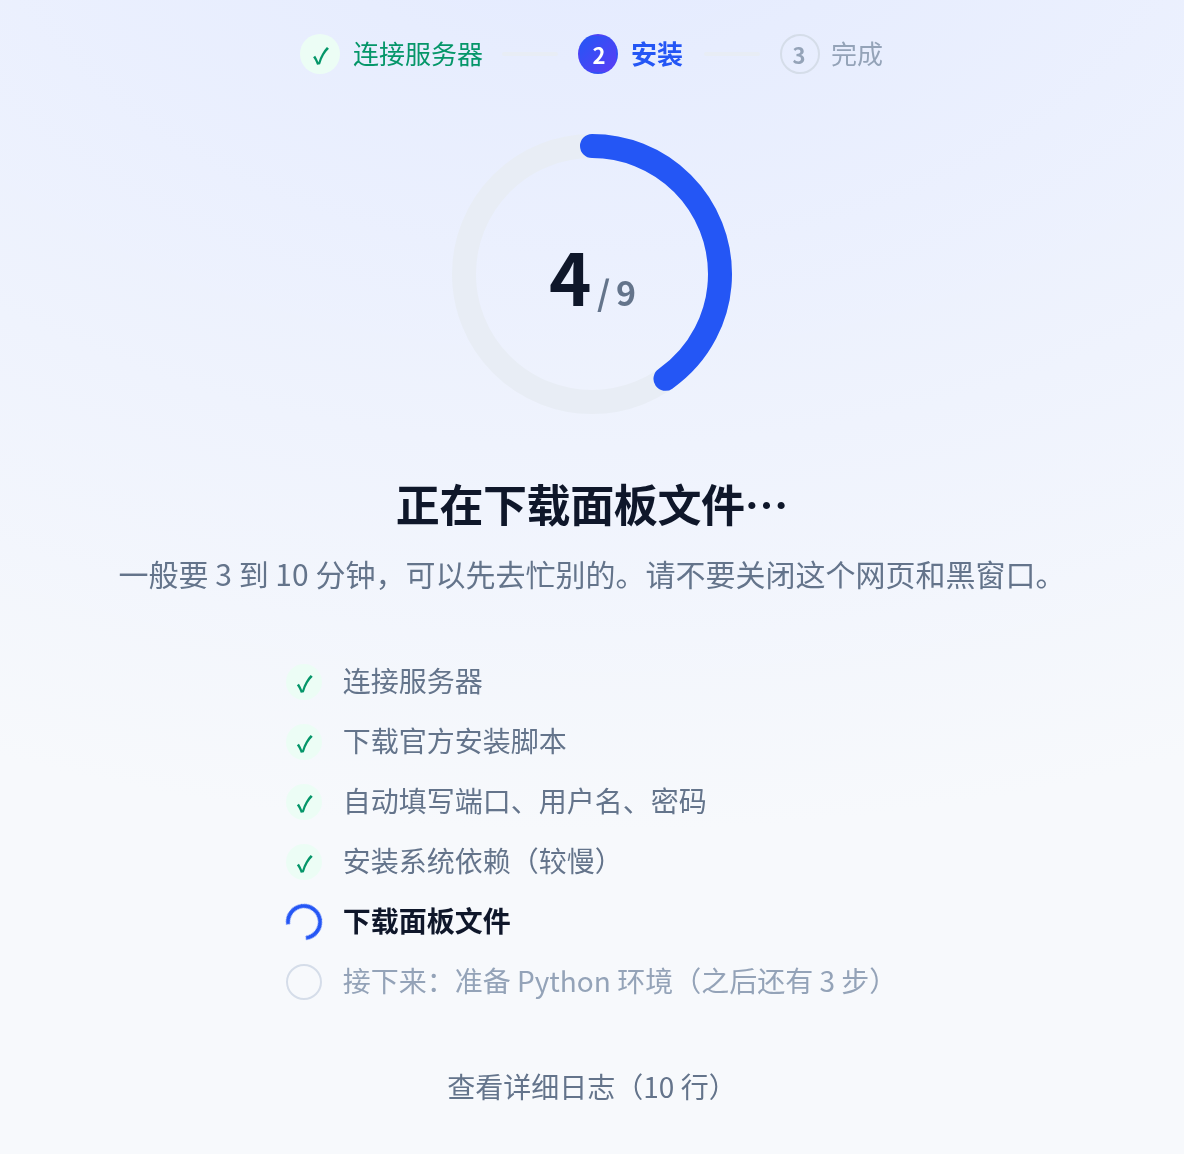
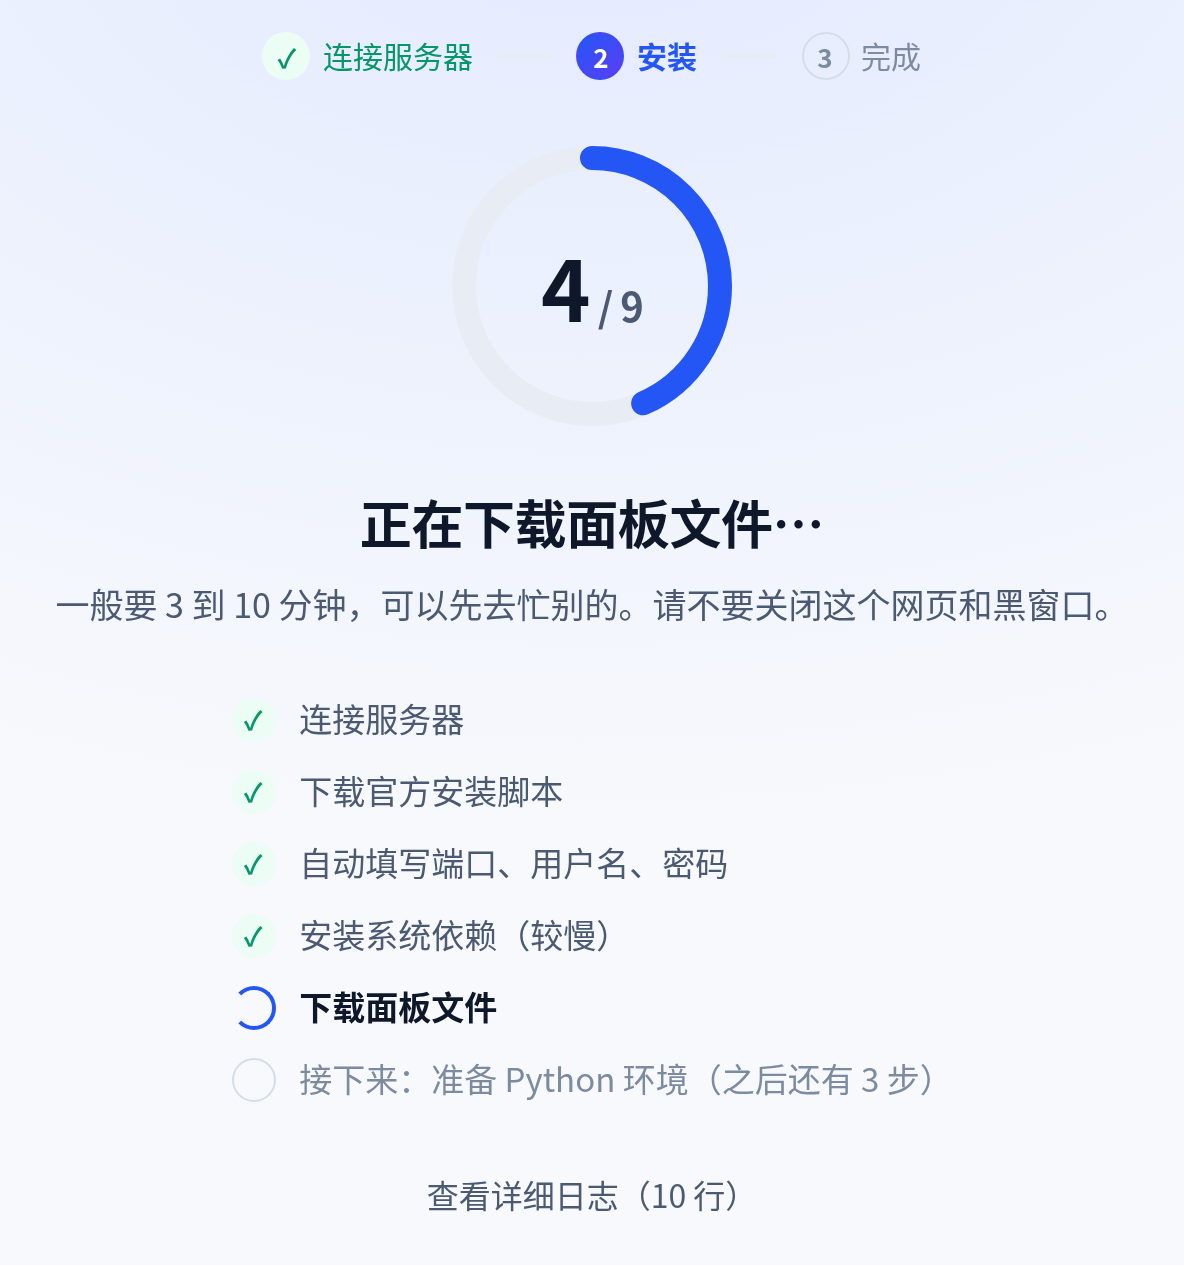
网页字号整体调大、灰色说明文字加深，看得更清楚
正文 15→16px，说明、步骤、提示、标签、按钮等小字都大了约 2px；安装进度的步骤列表 14→16.5px、标题 22→26px；次要文字颜色加深。README 配图重拍。

diff --git a/web/src/styles/ui.css b/web/src/styles/ui.css
@@ -9,7 +9,7 @@
 .logo img { width: 32px; height: 32px; border-radius: 9px; }
 .logo:disabled { color: inherit; }
 .main { flex: 1; width: 100%; max-width: 760px; margin: 0 auto; padding: 8px 20px 56px; position: relative; }
-.foot { text-align: center; font-size: 12px; color: var(--text-3); padding: 0 20px 24px; }
+.foot { text-align: center; font-size: 13.5px; color: var(--text-3); padding: 0 20px 24px; }
 
 .page { width: 100%; max-width: 560px; margin: 0 auto; animation: rise 0.28s ease-out both; }
 .page.wide { max-width: 720px; }
@@ -17,7 +17,7 @@
 .page-enter-from, .page-leave-to { opacity: 0; }
 
 .back-row { max-width: 560px; margin: 0 auto 2px; }
-.back { display: inline-flex; align-items: center; gap: 4px; border: 0; background: none; color: var(--text-2); font-size: 15px; padding: 6px 8px 6px 0; border-radius: 8px; }
+.back { display: inline-flex; align-items: center; gap: 4px; border: 0; background: none; color: var(--text-2); font-size: 16px; padding: 6px 8px 6px 0; border-radius: 8px; }
 .back:hover { color: var(--text); }
 .back .icon { width: 16px; height: 16px; }
 
@@ -25,9 +25,9 @@
 h1 { font-size: 40px; line-height: 1.25; font-weight: 800; letter-spacing: -0.5px; text-align: center; }
 .title { font-size: 28px; line-height: 1.35; font-weight: 750; letter-spacing: -0.2px; }
 .title-left { font-size: 30px; text-align: left; }
-.lead { font-size: 17px; color: var(--text-2); text-align: center; margin-top: 12px; }
-.lead.sm { font-size: 15px; margin-top: 8px; }
-.hint { font-size: 13px; color: var(--text-2); line-height: 1.6; }
+.lead { font-size: 19px; color: var(--text-2); text-align: center; margin-top: 12px; }
+.lead.sm { font-size: 17px; margin-top: 10px; }
+.hint { font-size: 14.5px; color: var(--text-2); line-height: 1.6; }
 .hint.center { text-align: center; }
 .sel { user-select: all; }
 
@@ -40,13 +40,13 @@ h1 { font-size: 40px; line-height: 1.25; font-weight: 800; letter-spacing: -0.5p
 .btn {
   display: inline-flex; align-items: center; justify-content: center; gap: 8px;
   height: 44px; padding: 0 20px; border-radius: 12px; border: 1px solid transparent;
-  font-size: 15px; font-weight: 650; white-space: nowrap;
+  font-size: 16px; font-weight: 650; white-space: nowrap;
   transition: transform 0.12s ease, box-shadow 0.15s ease, background-color 0.15s ease, border-color 0.15s ease, opacity 0.15s ease;
 }
 .btn:active:not(:disabled) { transform: translateY(1px) scale(0.99); }
 .btn:disabled { opacity: 0.5; }
-.btn.xl { height: 52px; padding: 0 28px; border-radius: var(--r-btn); font-size: 17px; }
-.btn.sm { height: 40px; padding: 0 16px; font-size: 14px; border-radius: 11px; }
+.btn.xl { height: 54px; padding: 0 28px; border-radius: var(--r-btn); font-size: 18px; }
+.btn.sm { height: 40px; padding: 0 16px; font-size: 15px; border-radius: 11px; }
 .btn.block { width: 100%; }
 .btn.primary { background: var(--brand-grad); color: var(--on-brand); box-shadow: var(--shadow-brand); }
 .btn.primary:hover:not(:disabled) { filter: brightness(1.06); box-shadow: 0 10px 28px rgba(36, 86, 245, 0.36); }
@@ -58,9 +58,9 @@ h1 { font-size: 40px; line-height: 1.25; font-weight: 800; letter-spacing: -0.5p
 .btn-row { display: flex; gap: 12px; }
 .btn-row .grow2 { flex: 2; }
 .btn-row .grow1 { flex: 1; }
-.linkbtn { border: 0; background: none; padding: 6px 4px; color: var(--brand-text); font-size: 15px; font-weight: 650; display: inline-flex; align-items: center; gap: 6px; border-radius: 8px; }
+.linkbtn { border: 0; background: none; padding: 6px 4px; color: var(--brand-text); font-size: 16.5px; font-weight: 650; display: inline-flex; align-items: center; gap: 6px; border-radius: 8px; }
 .linkbtn:hover:not(:disabled) { text-decoration: underline; text-underline-offset: 3px; }
-.linkbtn.quiet { color: var(--text-2); font-weight: 500; font-size: 14px; }
+.linkbtn.quiet { color: var(--text-2); font-weight: 500; font-size: 16px; }
 .linkbtn.quiet:hover:not(:disabled) { color: var(--text); }
 .linkbtn.danger { color: var(--bad); }
 .linkbtn:disabled { opacity: 0.5; }
@@ -79,29 +79,29 @@ h1 { font-size: 40px; line-height: 1.25; font-weight: 800; letter-spacing: -0.5p
 .card { background: var(--surface); border-radius: var(--r-card); box-shadow: var(--shadow-card); padding: 32px; margin-top: 28px; }
 .form { display: flex; flex-direction: column; gap: 20px; }
 .field { display: flex; flex-direction: column; gap: 8px; min-width: 0; }
-.field-label { font-size: 14px; font-weight: 650; }
+.field-label { font-size: 15.5px; font-weight: 650; }
 .field-row { display: grid; grid-template-columns: 1fr 1fr; gap: 16px; }
 .input {
   height: 52px; width: 100%; border: 1.5px solid var(--line); border-radius: var(--r-input); padding: 0 16px;
   background: var(--surface); font-size: 17px; outline: none; transition: border-color 0.15s ease, box-shadow 0.15s ease;
 }
-.input::placeholder { color: var(--text-3); font-size: 15px; }
+.input::placeholder { color: var(--text-3); font-size: 16px; }
 .input:focus, .input:focus-within { border-color: var(--brand); box-shadow: var(--focus-ring); }
 .input.pw { display: flex; align-items: center; padding: 0 6px 0 16px; }
 .input.pw input { flex: 1; min-width: 0; border: 0; background: none; outline: none; height: 100%; font-size: 17px; }
-.input.pw input::placeholder { color: var(--text-3); font-size: 15px; }
-.pw-eye { border: 0; background: none; color: var(--text-2); font-size: 14px; padding: 8px 10px; border-radius: 8px; }
+.input.pw input::placeholder { color: var(--text-3); font-size: 16px; }
+.pw-eye { border: 0; background: none; color: var(--text-2); font-size: 15px; padding: 8px 10px; border-radius: 8px; }
 .pw-eye:hover { background: var(--idle-soft); color: var(--text); }
-.check { display: flex; gap: 12px; align-items: flex-start; font-size: 15px; cursor: pointer; }
+.check { display: flex; gap: 12px; align-items: flex-start; font-size: 16.5px; cursor: pointer; }
 .check input { width: 20px; height: 20px; margin: 2px 0 0; accent-color: var(--brand); flex: none; cursor: pointer; }
 .check span { display: flex; flex-direction: column; gap: 2px; }
 .form .center-block { margin-top: -6px; }
-.safe { display: flex; gap: 6px; align-items: center; justify-content: center; font-size: 13px; color: var(--text-2); margin-top: 18px; }
+.safe { display: flex; gap: 6px; align-items: center; justify-content: center; font-size: 14.5px; color: var(--text-2); margin-top: 18px; }
 .safe .icon { width: 15px; height: 15px; color: var(--ok); }
 .sudo { margin-top: 22px; }
 
 /* ---------- 提示条 ---------- */
-.tip { display: flex; gap: 12px; padding: 14px 16px; border-radius: 14px; font-size: 14px; line-height: 1.7; text-align: left; }
+.tip { display: flex; gap: 12px; padding: 14px 16px; border-radius: 14px; font-size: 15.5px; line-height: 1.7; text-align: left; }
 .tip.warn { background: var(--warn-soft); color: var(--warn); border: 1px solid var(--warn-line); }
 .tip.bad { background: var(--bad-soft); color: var(--bad); border: 1px solid var(--bad-line); }
 .tip-ic { width: 20px; height: 20px; border-radius: 50%; background: currentColor; flex: none; margin-top: 2px; display: grid; place-items: center; }
@@ -109,9 +109,9 @@ h1 { font-size: 40px; line-height: 1.25; font-weight: 800; letter-spacing: -0.5p
 .tip-ic { font-size: 0; }
 
 /* ---------- 步骤条 ---------- */
-.stepsbar { display: flex; justify-content: center; align-items: center; gap: 10px; margin: 4px 0 26px; font-size: 13px; color: var(--text-3); }
+.stepsbar { display: flex; justify-content: center; align-items: center; gap: 12px; margin: 4px 0 28px; font-size: 15px; color: var(--text-3); }
 .stepsbar li { display: inline-flex; align-items: center; gap: 6px; white-space: nowrap; }
-.stepsbar-dot { width: 20px; height: 20px; border-radius: 50%; border: 1.5px solid var(--line-strong); display: grid; place-items: center; font-size: 11px; font-weight: 700; }
+.stepsbar-dot { width: 24px; height: 24px; border-radius: 50%; border: 1.5px solid var(--line-strong); display: grid; place-items: center; font-size: 13px; font-weight: 700; }
 .stepsbar .done { color: var(--ok); }
 .stepsbar .done .stepsbar-dot { border-color: transparent; background: var(--ok-soft); }
 .stepsbar .now { color: var(--brand-text); font-weight: 650; }
@@ -138,14 +138,14 @@ h1 { font-size: 40px; line-height: 1.25; font-weight: 800; letter-spacing: -0.5p
 .srv-ic { width: 44px; height: 44px; border-radius: 12px; background: var(--brand-soft); color: var(--brand-text); display: grid; place-items: center; flex: none; }
 .srv-ic .icon { width: 20px; height: 20px; }
 .srv-main { flex: 1; min-width: 0; display: flex; flex-direction: column; gap: 2px; }
-.srv-name { font-family: var(--mono); font-size: 16px; font-weight: 650; }
-.srv-sub { font-size: 13px; color: var(--text-2); overflow: hidden; text-overflow: ellipsis; white-space: nowrap; }
+.srv-name { font-family: var(--mono); font-size: 17.5px; font-weight: 650; }
+.srv-sub { font-size: 14.5px; color: var(--text-2); overflow: hidden; text-overflow: ellipsis; white-space: nowrap; }
 .srv-go { color: var(--text-3); width: 16px; height: 16px; }
 
 /* ---------- 状态标签 ---------- */
-.pill { display: inline-flex; align-items: center; gap: 7px; height: 28px; padding: 0 12px; border-radius: 999px; font-size: 13px; font-weight: 650; white-space: nowrap; flex: none; }
+.pill { display: inline-flex; align-items: center; gap: 7px; height: 30px; padding: 0 12px; border-radius: 999px; font-size: 14.5px; font-weight: 650; white-space: nowrap; flex: none; }
 .pill::before { content: ""; width: 7px; height: 7px; border-radius: 50%; background: currentColor; }
-.pill.big { height: 34px; padding: 0 16px; font-size: 14px; }
+.pill.big { height: 36px; padding: 0 16px; font-size: 15.5px; }
 .pill.ok { background: var(--ok-soft); color: var(--ok); }
 .pill.warn { background: var(--warn-soft); color: var(--warn); }
 .pill.bad { background: var(--bad-soft); color: var(--bad); }
@@ -160,13 +160,13 @@ h1 { font-size: 40px; line-height: 1.25; font-weight: 800; letter-spacing: -0.5p
 .ring-track { stroke: var(--line); }
 .ring-bar { stroke: var(--brand); stroke-linecap: round; transition: stroke-dasharray 0.6s ease; }
 .ring.bad .ring-bar { stroke: var(--bad); }
-.ring-num { position: absolute; inset: 0; display: grid; place-items: center; font-size: 36px; font-weight: 800; letter-spacing: -0.5px; }
-.ring-num small { font-size: 17px; font-weight: 600; color: var(--text-2); }
+.ring-num { position: absolute; inset: 0; display: grid; place-items: center; font-size: 42px; font-weight: 800; letter-spacing: -0.5px; }
+.ring-num small { font-size: 20px; font-weight: 600; color: var(--text-2); }
 .ring.bad .ring-num { color: var(--bad); }
-.headline { text-align: center; margin-top: 26px; font-size: 22px; }
-.mini-steps { margin: 26px auto 0; width: fit-content; max-width: 100%; font-size: 14px; color: var(--text-2); }
-.mini-steps li { display: flex; align-items: center; gap: 10px; min-height: 30px; }
-.mini-dot { width: 18px; height: 18px; border-radius: 50%; display: grid; place-items: center; font-size: 11px; font-weight: 700; flex: none; }
+.headline { text-align: center; margin-top: 26px; font-size: 26px; }
+.mini-steps { margin: 26px auto 0; width: fit-content; max-width: 100%; font-size: 16.5px; color: var(--text-2); }
+.mini-steps li { display: flex; align-items: center; gap: 12px; min-height: 36px; }
+.mini-dot { width: 22px; height: 22px; border-radius: 50%; display: grid; place-items: center; font-size: 13px; font-weight: 700; flex: none; }
 .mini-steps .done .mini-dot { background: var(--ok-soft); color: var(--ok); }
 .mini-steps .warn .mini-dot { background: var(--warn-soft); color: var(--warn); }
 .mini-steps .failed .mini-dot { background: var(--bad-soft); color: var(--bad); }
@@ -177,7 +177,7 @@ h1 { font-size: 40px; line-height: 1.25; font-weight: 800; letter-spacing: -0.5p
 .logwrap { margin-top: 20px; display: flex; flex-direction: column; align-items: center; gap: 10px; }
 .log {
   width: 100%; max-height: 340px; overflow: auto; margin: 0; padding: 14px 16px; border-radius: 14px;
-  background: #0f172a; color: #cbd5e1; font: 12.5px/1.65 var(--mono); white-space: pre-wrap; word-break: break-all; text-align: left;
+  background: #0f172a; color: #cbd5e1; font: 13.5px/1.65 var(--mono); white-space: pre-wrap; word-break: break-all; text-align: left;
 }
 .stack { display: flex; flex-direction: column; gap: 16px; margin-top: 26px; }
 .done-art { width: 140px; height: 140px; margin: 0 auto 14px; }
@@ -187,10 +187,10 @@ h1 { font-size: 40px; line-height: 1.25; font-weight: 800; letter-spacing: -0.5p
 .detail-card .cred { background: var(--sunken); }
 .cred-row { display: flex; align-items: center; gap: 12px; min-height: 58px; padding: 10px 20px; border-bottom: 1px solid var(--line); }
 .cred-row:last-child { border-bottom: 0; }
-.cred-k { width: 72px; flex: none; font-size: 14px; color: var(--text-2); }
-.cred-v { flex: 1; min-width: 0; font-family: var(--mono); font-size: 16px; font-weight: 650; word-break: break-all; }
-.cred-v.dim { font-family: var(--font); font-weight: 400; font-size: 14px; color: var(--text-3); user-select: auto; }
-.cred-copy { border: 0; background: none; color: var(--brand-text); font-weight: 650; font-size: 14px; padding: 6px 10px; margin-right: -10px; border-radius: 8px; flex: none; }
+.cred-k { width: 80px; flex: none; font-size: 15.5px; color: var(--text-2); }
+.cred-v { flex: 1; min-width: 0; font-family: var(--mono); font-size: 17.5px; font-weight: 650; word-break: break-all; }
+.cred-v.dim { font-family: var(--font); font-weight: 400; font-size: 15.5px; color: var(--text-3); user-select: auto; }
+.cred-copy { border: 0; background: none; color: var(--brand-text); font-weight: 650; font-size: 15.5px; padding: 6px 10px; margin-right: -10px; border-radius: 8px; flex: none; }
 .cred-copy:hover { background: var(--brand-soft); }
 
 /* ---------- 服务器详情 ---------- */
@@ -200,10 +200,10 @@ h1 { font-size: 40px; line-height: 1.25; font-weight: 800; letter-spacing: -0.5p
 .detail-head .hint { margin-top: 4px; }
 .detail-card { display: flex; flex-direction: column; gap: 16px; padding: 26px; }
 .checking { display: flex; flex-direction: column; align-items: center; gap: 16px; padding: 40px 0; color: var(--text-2); }
-.checking-line { display: flex; align-items: center; justify-content: center; gap: 8px; color: var(--text-2); font-size: 14px; }
+.checking-line { display: flex; align-items: center; justify-content: center; gap: 8px; color: var(--text-2); font-size: 15.5px; }
 .empty { text-align: center; padding: 18px 0 6px; }
-.empty-title { font-size: 18px; font-weight: 700; margin-bottom: 4px; }
-.units { display: flex; flex-wrap: wrap; gap: 8px 18px; font-size: 13px; padding: 0 4px; }
+.empty-title { font-size: 20px; font-weight: 700; margin-bottom: 4px; }
+.units { display: flex; flex-wrap: wrap; gap: 8px 18px; font-size: 14.5px; padding: 0 4px; }
 .unit { display: inline-flex; align-items: center; gap: 6px; }
 .unit::before { content: ""; width: 7px; height: 7px; border-radius: 50%; background: currentColor; }
 .unit.ok { color: var(--ok); }
@@ -216,11 +216,11 @@ h1 { font-size: 40px; line-height: 1.25; font-weight: 800; letter-spacing: -0.5p
 .prov { display: flex; align-items: center; gap: 16px; }
 .prov + .prov { margin-top: 16px; }
 .prov-logo { width: 52px; height: 52px; border-radius: 14px; background: linear-gradient(135deg, #0ea5e9, #6366f1); color: #fff; display: grid; place-items: center; font-weight: 800; font-size: 20px; flex: none; }
-.prov-name { font-size: 18px; font-weight: 700; }
-.sec { font-size: 13px; font-weight: 700; color: var(--text-3); letter-spacing: 1px; margin: 26px 0 12px; }
+.prov-name { font-size: 19px; font-weight: 700; }
+.sec { font-size: 14.5px; font-weight: 700; color: var(--text-3); letter-spacing: 1px; margin: 26px 0 12px; }
 .nice { counter-reset: n; }
-.nice li { counter-increment: n; display: flex; gap: 12px; font-size: 15px; line-height: 1.7; margin-bottom: 10px; }
-.nice li::before { content: counter(n); width: 24px; height: 24px; border-radius: 50%; background: var(--brand-soft); color: var(--brand-text); display: grid; place-items: center; font-size: 13px; font-weight: 700; flex: none; margin-top: 2px; }
+.nice li { counter-increment: n; display: flex; gap: 12px; font-size: 16.5px; line-height: 1.7; margin-bottom: 10px; }
+.nice li::before { content: counter(n); width: 24px; height: 24px; border-radius: 50%; background: var(--brand-soft); color: var(--brand-text); display: grid; place-items: center; font-size: 14px; font-weight: 700; flex: none; margin-top: 3px; }
 
 /* ---------- 退出、出错 ---------- */
 .center-page { text-align: center; padding-top: 80px; }
@@ -228,29 +228,29 @@ h1 { font-size: 40px; line-height: 1.25; font-weight: 800; letter-spacing: -0.5p
 .big-mark .icon { width: 34px; height: 34px; stroke-width: 2; }
 .big-mark.ok { background: var(--ok-soft); color: var(--ok); box-shadow: 0 0 0 10px var(--ok-soft); }
 .big-mark.warn { background: var(--warn-soft); color: var(--warn); box-shadow: 0 0 0 10px var(--warn-soft); }
-.center-page .title { font-size: 22px; }
+.center-page .title { font-size: 24px; }
 
 /* ---------- 右上角菜单 ---------- */
 .menu-wrap { position: relative; }
-.menu { position: absolute; right: 0; top: 46px; z-index: 20; width: 220px; padding: 6px; border-radius: 14px; background: var(--surface); box-shadow: var(--shadow-pop); border: 1px solid var(--line); animation: rise 0.14s ease-out; }
-.menu button { width: 100%; height: 40px; padding: 0 12px; border: 0; background: none; border-radius: 9px; text-align: left; font-size: 14px; }
+.menu { position: absolute; right: 0; top: 46px; z-index: 20; width: 250px; padding: 6px; border-radius: 14px; background: var(--surface); box-shadow: var(--shadow-pop); border: 1px solid var(--line); animation: rise 0.14s ease-out; }
+.menu button { width: 100%; height: 44px; padding: 0 12px; border: 0; background: none; border-radius: 9px; text-align: left; font-size: 15.5px; }
 .menu button:hover:not(:disabled) { background: var(--idle-soft); }
 .menu button:disabled { opacity: 0.45; }
 .menu .danger { color: var(--bad); }
 .menu-sep { height: 1px; background: var(--line); margin: 6px 4px; }
-.menu .menu-meta { font-size: 12px; color: var(--text-3); height: 34px; }
+.menu .menu-meta { font-size: 13.5px; color: var(--text-3); height: 34px; }
 
 /* ---------- 确认框 ---------- */
 .dlg { width: min(440px, calc(100vw - 32px)); border: 0; border-radius: 20px; padding: 28px; background: var(--surface); color: var(--text); box-shadow: var(--shadow-pop); }
 .dlg::backdrop { background: rgba(15, 23, 42, 0.4); backdrop-filter: blur(3px); }
-.dlg h2 { font-size: 20px; font-weight: 750; margin-bottom: 12px; }
-.dlg p { font-size: 14px; color: var(--text-2); line-height: 1.75; margin-bottom: 8px; }
+.dlg h2 { font-size: 22px; font-weight: 750; margin-bottom: 12px; }
+.dlg p { font-size: 15.5px; color: var(--text-2); line-height: 1.75; margin-bottom: 8px; }
 .dlg-foot { display: flex; justify-content: flex-end; gap: 10px; margin-top: 22px; }
 
 /* ---------- 小提示 ---------- */
 .toasts { position: fixed; inset: auto 0 28px 0; margin: 0 auto; width: fit-content; max-width: calc(100vw - 32px); display: flex; flex-direction: column; align-items: center; gap: 8px; padding: 0; border: 0; background: none; overflow: visible; z-index: 50; }
 .toasts:not(:popover-open):empty { display: none; }
-.toast { display: inline-flex; align-items: center; gap: 8px; padding: 10px 18px; border-radius: 999px; background: #0f172a; color: #fff; font-size: 14px; box-shadow: var(--shadow-pop); animation: rise 0.18s ease-out; }
+.toast { display: inline-flex; align-items: center; gap: 8px; padding: 10px 18px; border-radius: 18px; background: #0f172a; color: #fff; font-size: 15.5px; box-shadow: var(--shadow-pop); animation: rise 0.18s ease-out; }
 .toast .icon { width: 16px; height: 16px; color: #34d399; }
 @media (prefers-color-scheme: dark) {
   .toast { background: #e8edf7; color: #0f172a; }
@@ -273,8 +273,8 @@ h1 { font-size: 40px; line-height: 1.25; font-weight: 800; letter-spacing: -0.5p
   .srv-ic { display: none; }
   .detail-host { font-size: 22px; }
   .detail-head { flex-wrap: wrap; }
-  .stepsbar { gap: 6px; font-size: 12px; }
+  .stepsbar { gap: 6px; font-size: 13.5px; }
   .stepsbar-line { width: 14px; }
   .cred-row { flex-wrap: wrap; gap: 2px 12px; padding: 10px 16px; }
-  .cred-k { width: 100%; font-size: 12px; }
+  .cred-k { width: 100%; font-size: 13.5px; }
 }

diff --git a/web/src/styles/tokens.css b/web/src/styles/tokens.css
@@ -18,8 +18,8 @@
   --line: #e8edf5;
   --line-strong: #d5dde9;
   --text: #0f172a;
-  --text-2: #64748b;
-  --text-3: #94a3b8;
+  --text-2: #4b5a72;
+  --text-3: #7d8ba1;
 
   --ok: #059669; --ok-soft: #ecfdf5;
   --warn: #b45309; --warn-soft: #fffbeb; --warn-line: #fde68a;
@@ -50,8 +50,8 @@
     --line: #222c44;
     --line-strong: #2f3b58;
     --text: #e8edf7;
-    --text-2: #94a3b8;
-    --text-3: #64748b;
+    --text-2: #aab6c8;
+    --text-3: #7f8da3;
     --ok: #34d399; --ok-soft: rgba(16, 185, 129, 0.14);
     --warn: #fbbf24; --warn-soft: rgba(245, 158, 11, 0.12); --warn-line: rgba(245, 158, 11, 0.35);
     --bad: #f87171; --bad-soft: rgba(239, 68, 68, 0.12); --bad-line: rgba(239, 68, 68, 0.35);

diff --git a/web/src/styles/base.css b/web/src/styles/base.css
@@ -5,7 +5,7 @@ body {
   min-height: 100vh;
   background: var(--bg);
   color: var(--text);
-  font: 15px/1.65 var(--font);
+  font: 16px/1.65 var(--font);
   -webkit-font-smoothing: antialiased;
   text-rendering: optimizeLegibility;
 }
